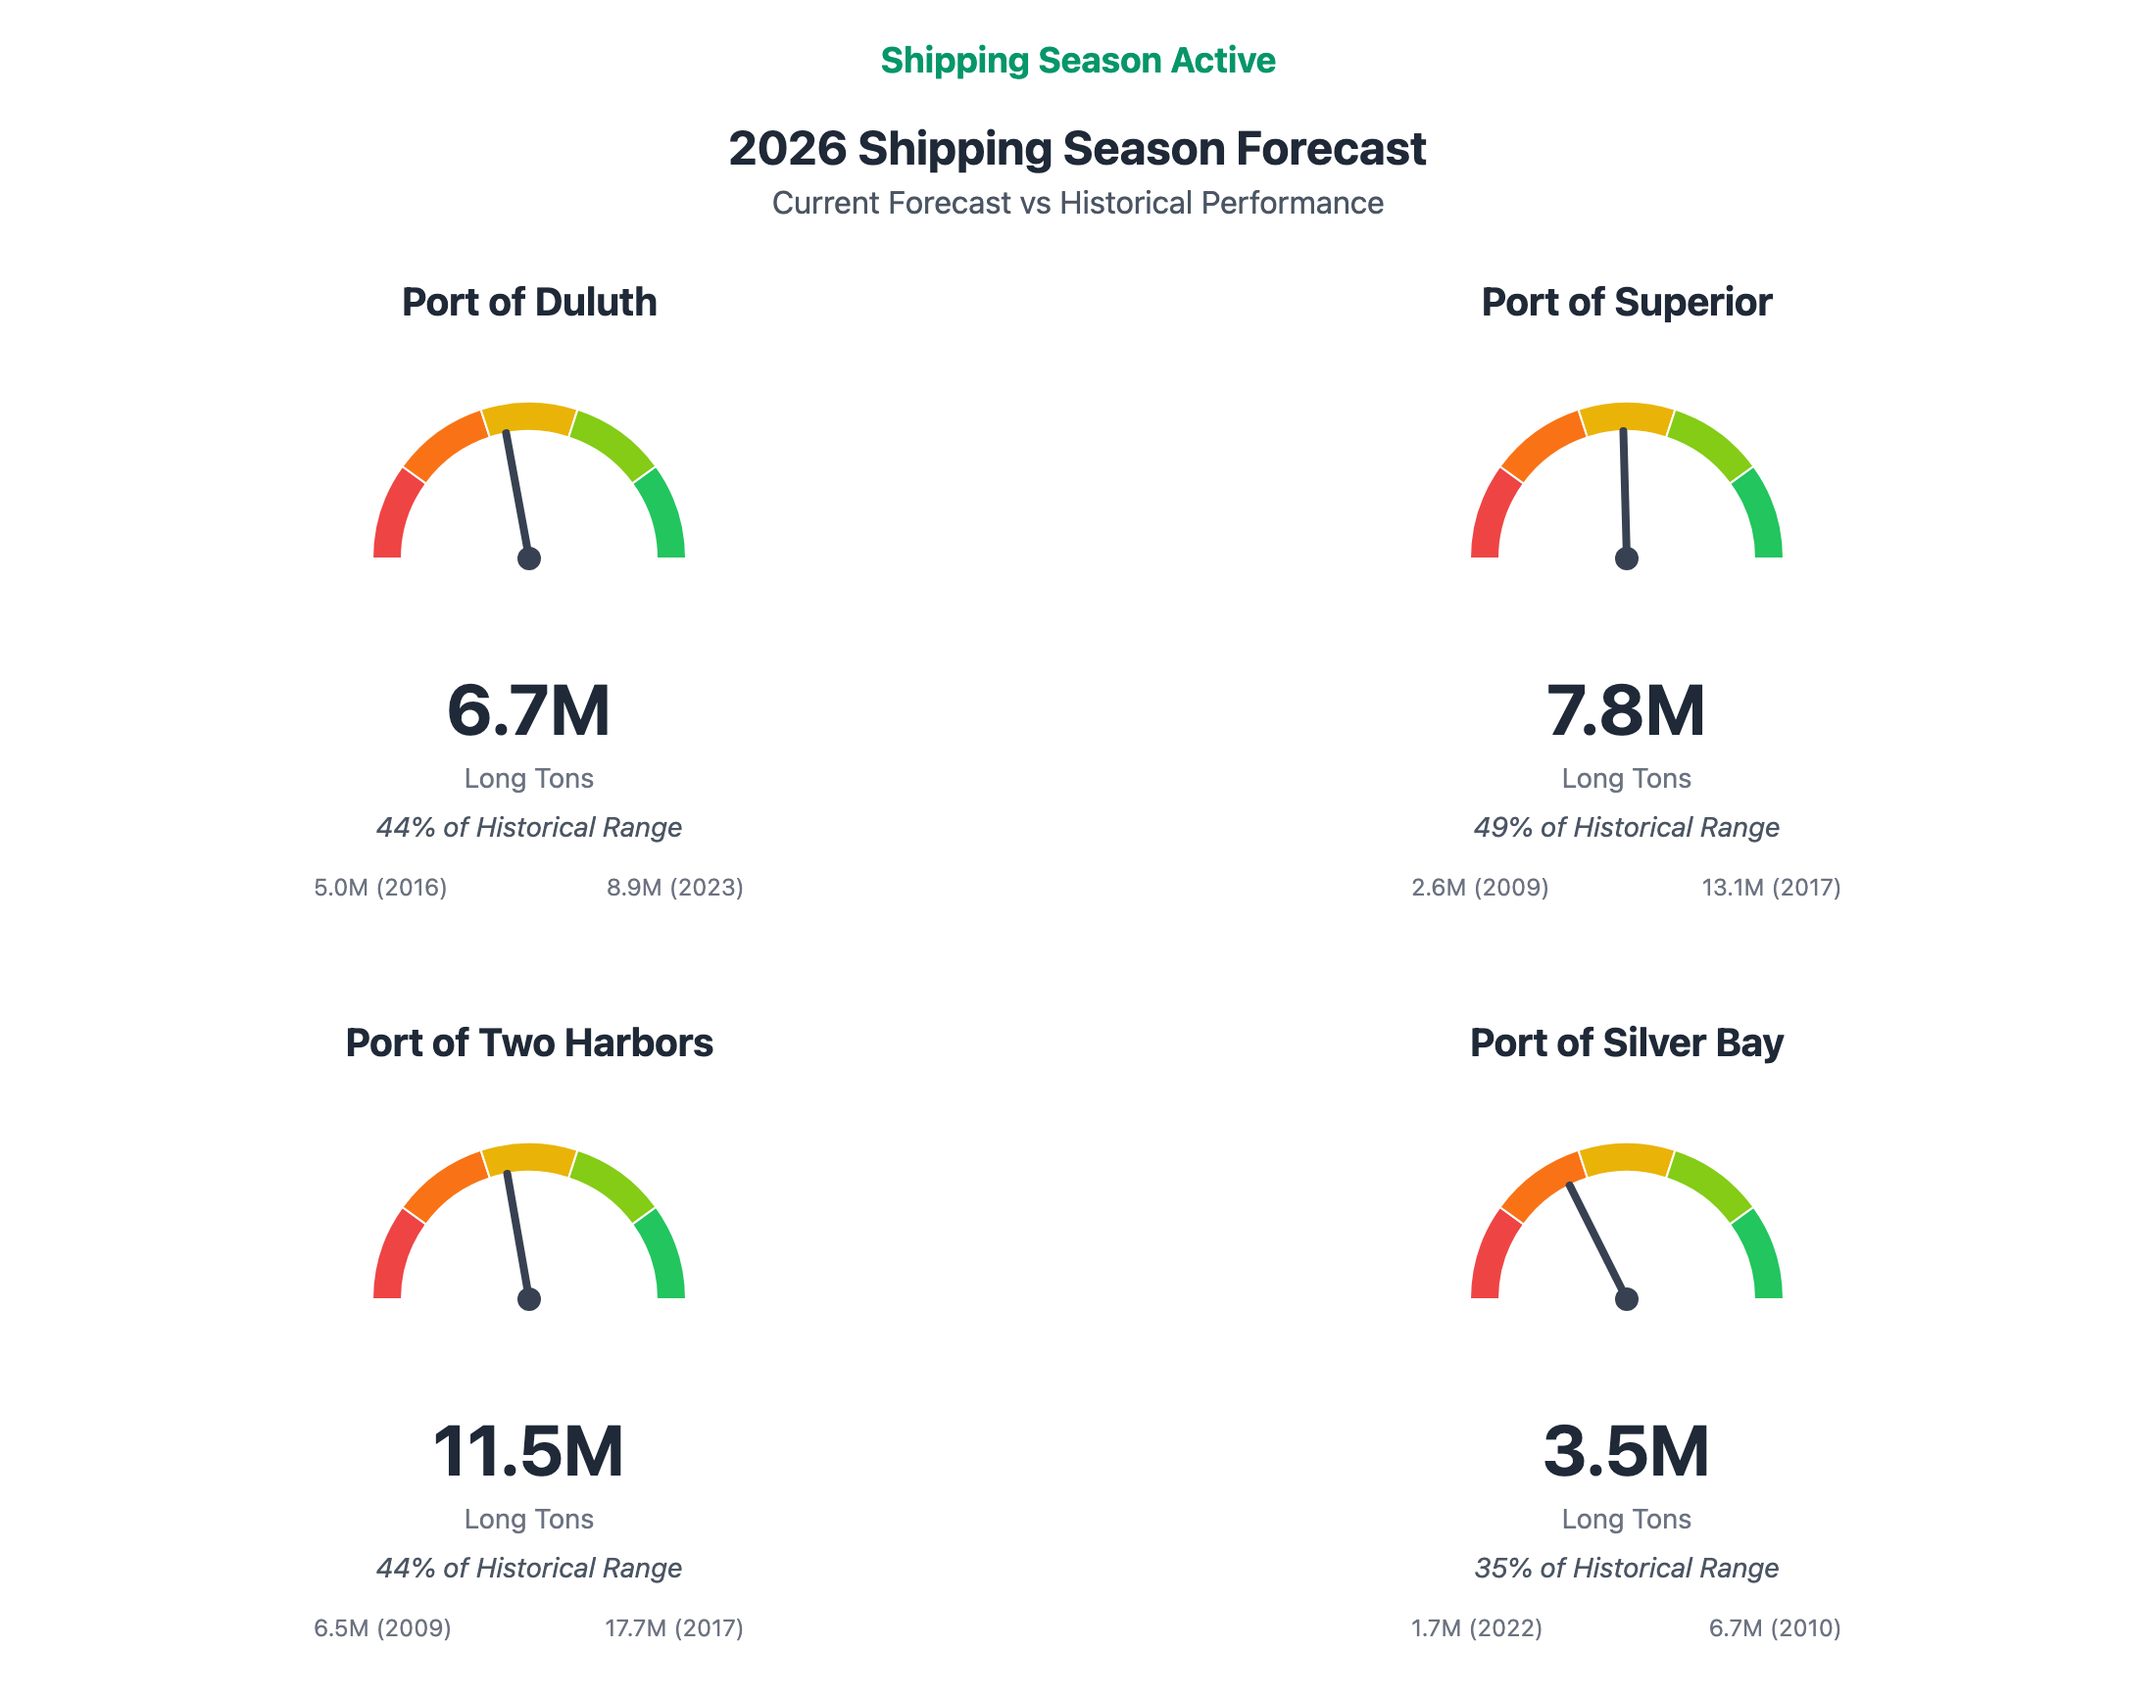
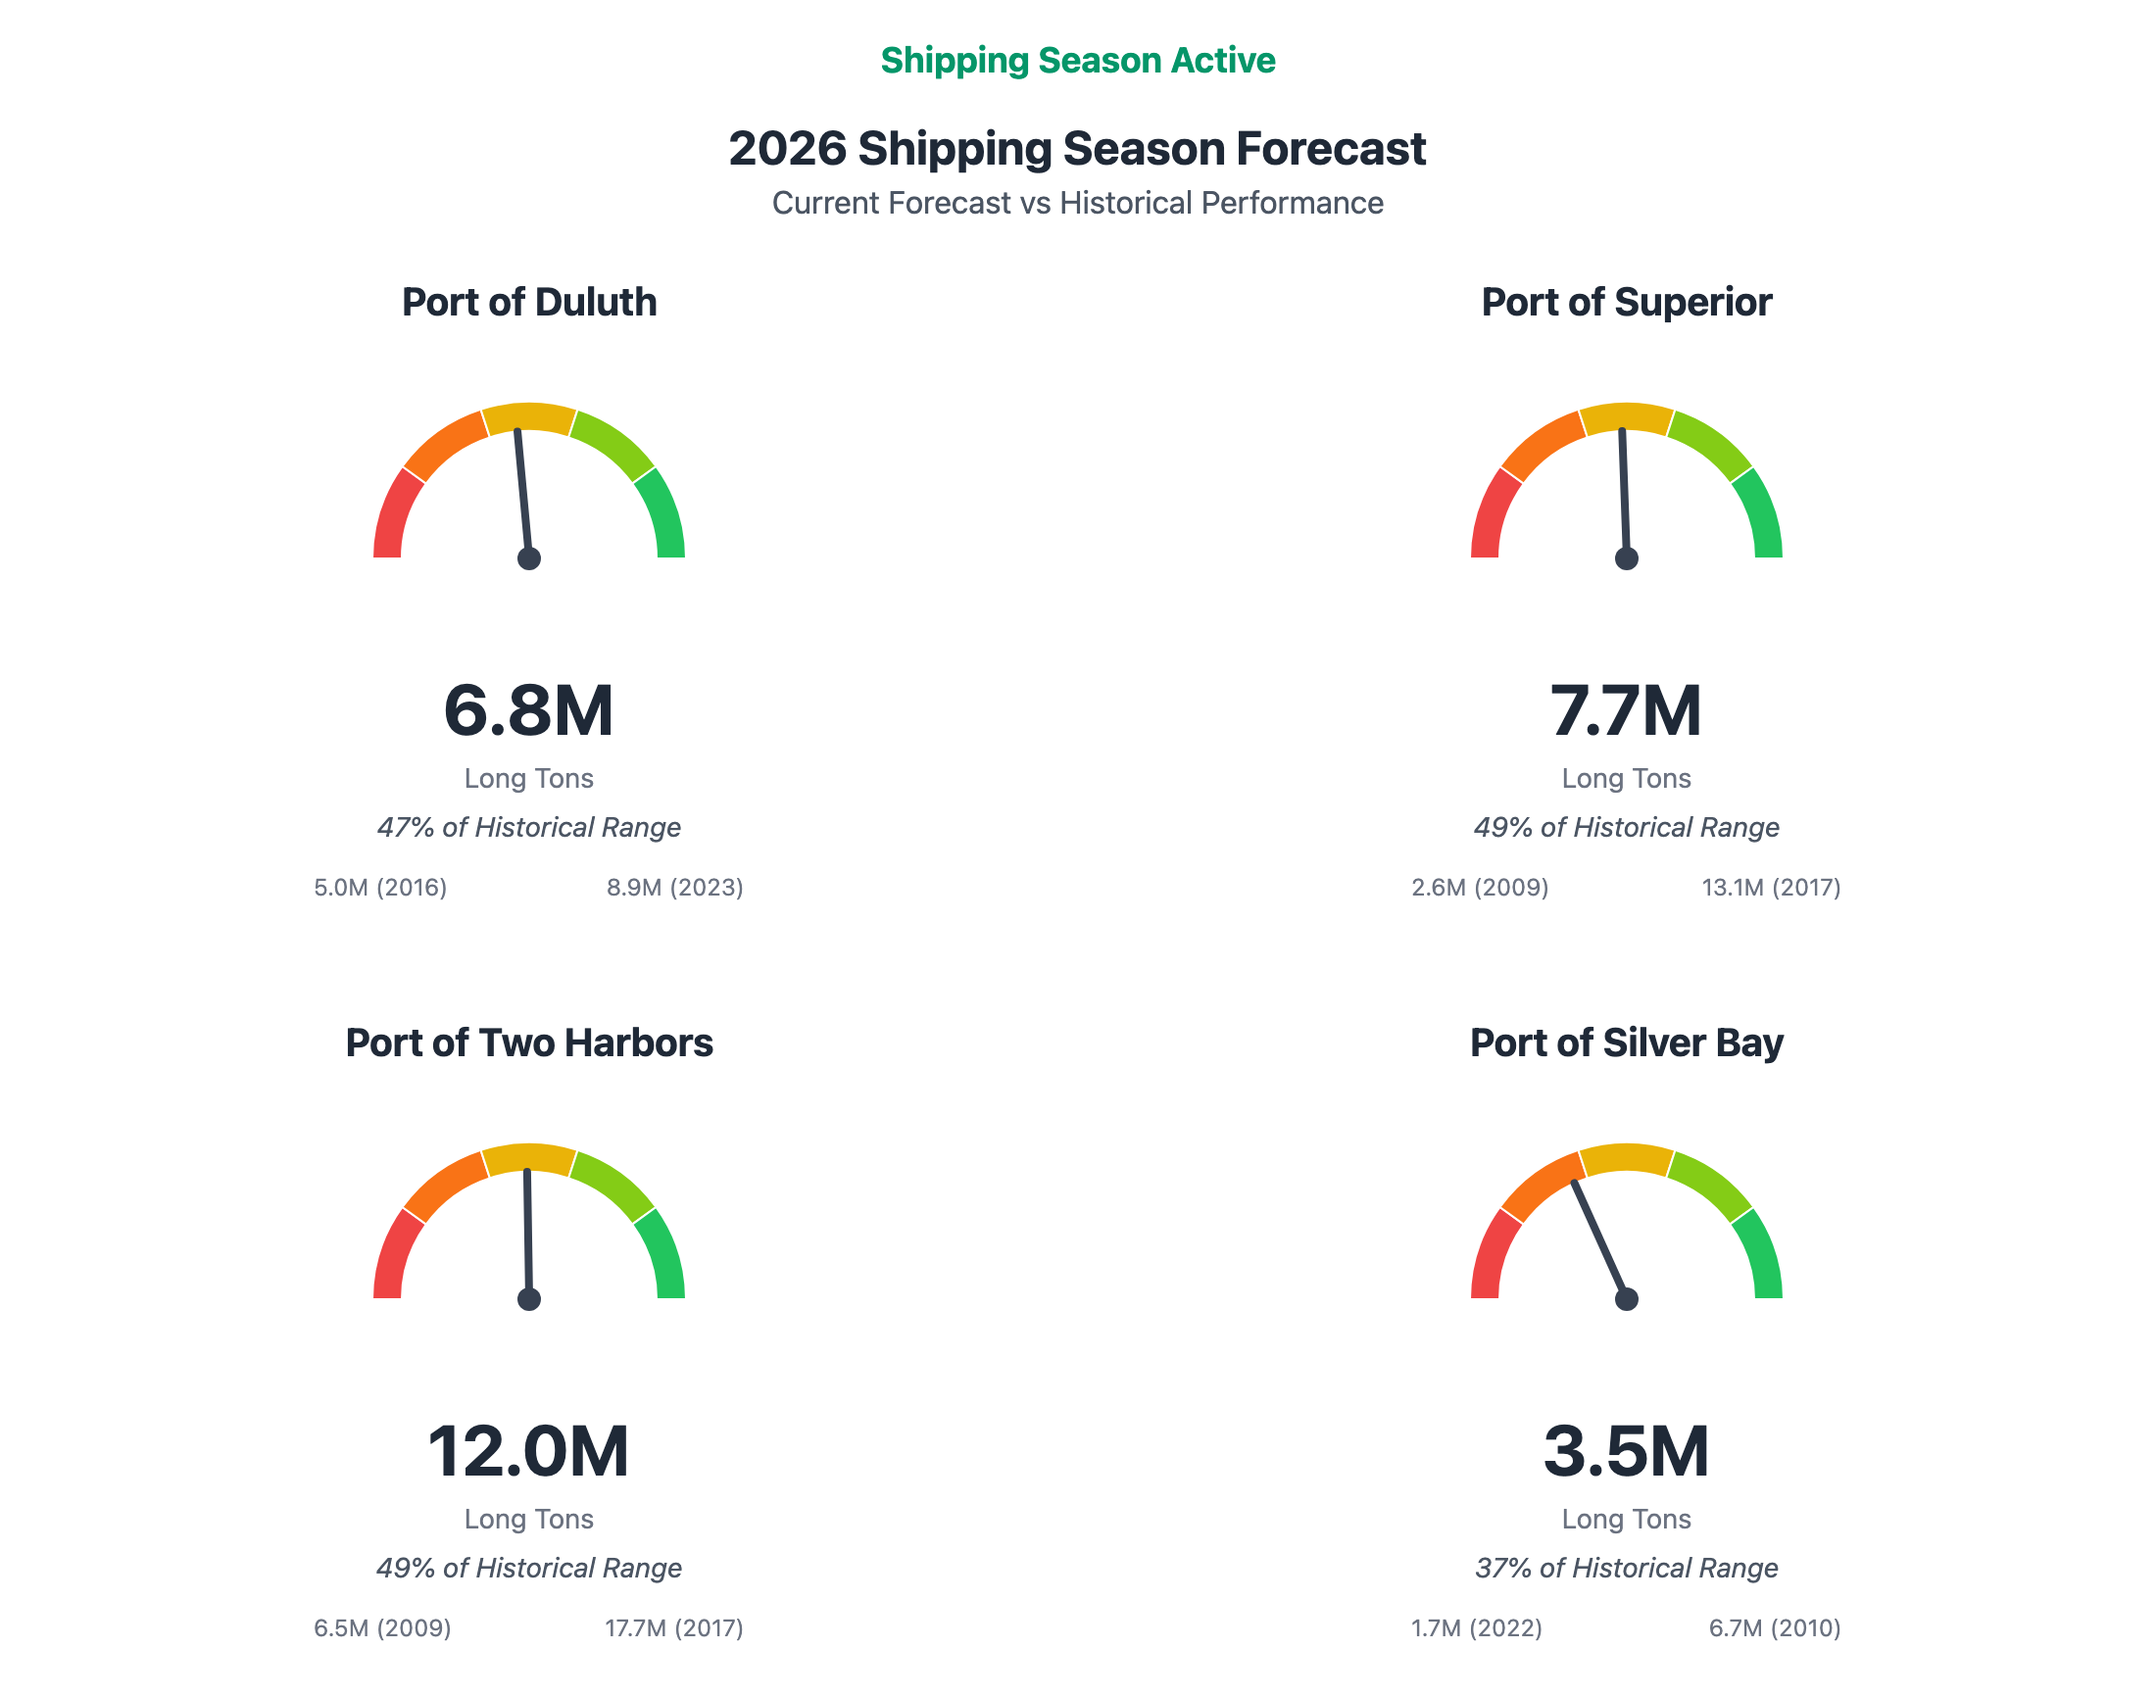
Auto-update: Model forecasts 2026-09-04 21:05:29

diff --git a/static/models/port_forecasts_dashboard.html b/static/models/port_forecasts_dashboard.html
@@ -180,7 +180,7 @@
                 <svg class="gauge-svg" width="250" height="140" viewBox="0 0 250 140">
                     <g id="duluth-gauge"></g>
                 </svg>
-                <div class="gauge-value">6.7M</div>
+                <div class="gauge-value">6.8M</div>
                 <div class="gauge-unit">Long Tons</div>
                 <div class="gauge-percentage"></div>
                 <div class="gauge-range">
@@ -194,7 +194,7 @@
                 <svg class="gauge-svg" width="250" height="140" viewBox="0 0 250 140">
                     <g id="superior-gauge"></g>
                 </svg>
-                <div class="gauge-value">7.8M</div>
+                <div class="gauge-value">7.7M</div>
                 <div class="gauge-unit">Long Tons</div>
                 <div class="gauge-percentage"></div>
                 <div class="gauge-range">
@@ -208,7 +208,7 @@
                 <svg class="gauge-svg" width="250" height="140" viewBox="0 0 250 140">
                     <g id="two-harbors-gauge"></g>
                 </svg>
-                <div class="gauge-value">11.5M</div>
+                <div class="gauge-value">12.0M</div>
                 <div class="gauge-unit">Long Tons</div>
                 <div class="gauge-percentage"></div>
                 <div class="gauge-range">
@@ -233,8 +233,8 @@
         </div>
 
         <div class="total-forecast">
-            <div class="total-text">Total System Forecast: 29.5 Million Long Tons</div>
-            <div class="total-range">80% Range: 22.4 - 36.6 Million Long Tons (P10-P90)</div>
+            <div class="total-text">Total System Forecast: 30.2 Million Long Tons</div>
+            <div class="total-range">80% Range: 23.1 - 37.3 Million Long Tons (P10-P90)</div>
         </div>
 
         <div class="legend">
@@ -270,25 +270,25 @@
         const ports = [
             {
                 id: 'duluth-gauge',
-                current: 6.724,
+                current: 6.836,
                 min: 5.0,
                 max: 8.9
             },
             {
                 id: 'superior-gauge',
-                current: 7.76,
+                current: 7.729,
                 min: 2.6,
                 max: 13.1
             },
             {
                 id: 'two-harbors-gauge',
-                current: 11.483,
+                current: 12.043,
                 min: 6.5,
                 max: 17.7
             },
             {
                 id: 'silver-bay-gauge',
-                current: 3.46,
+                current: 3.526,
                 min: 1.7,
                 max: 6.7
             }
